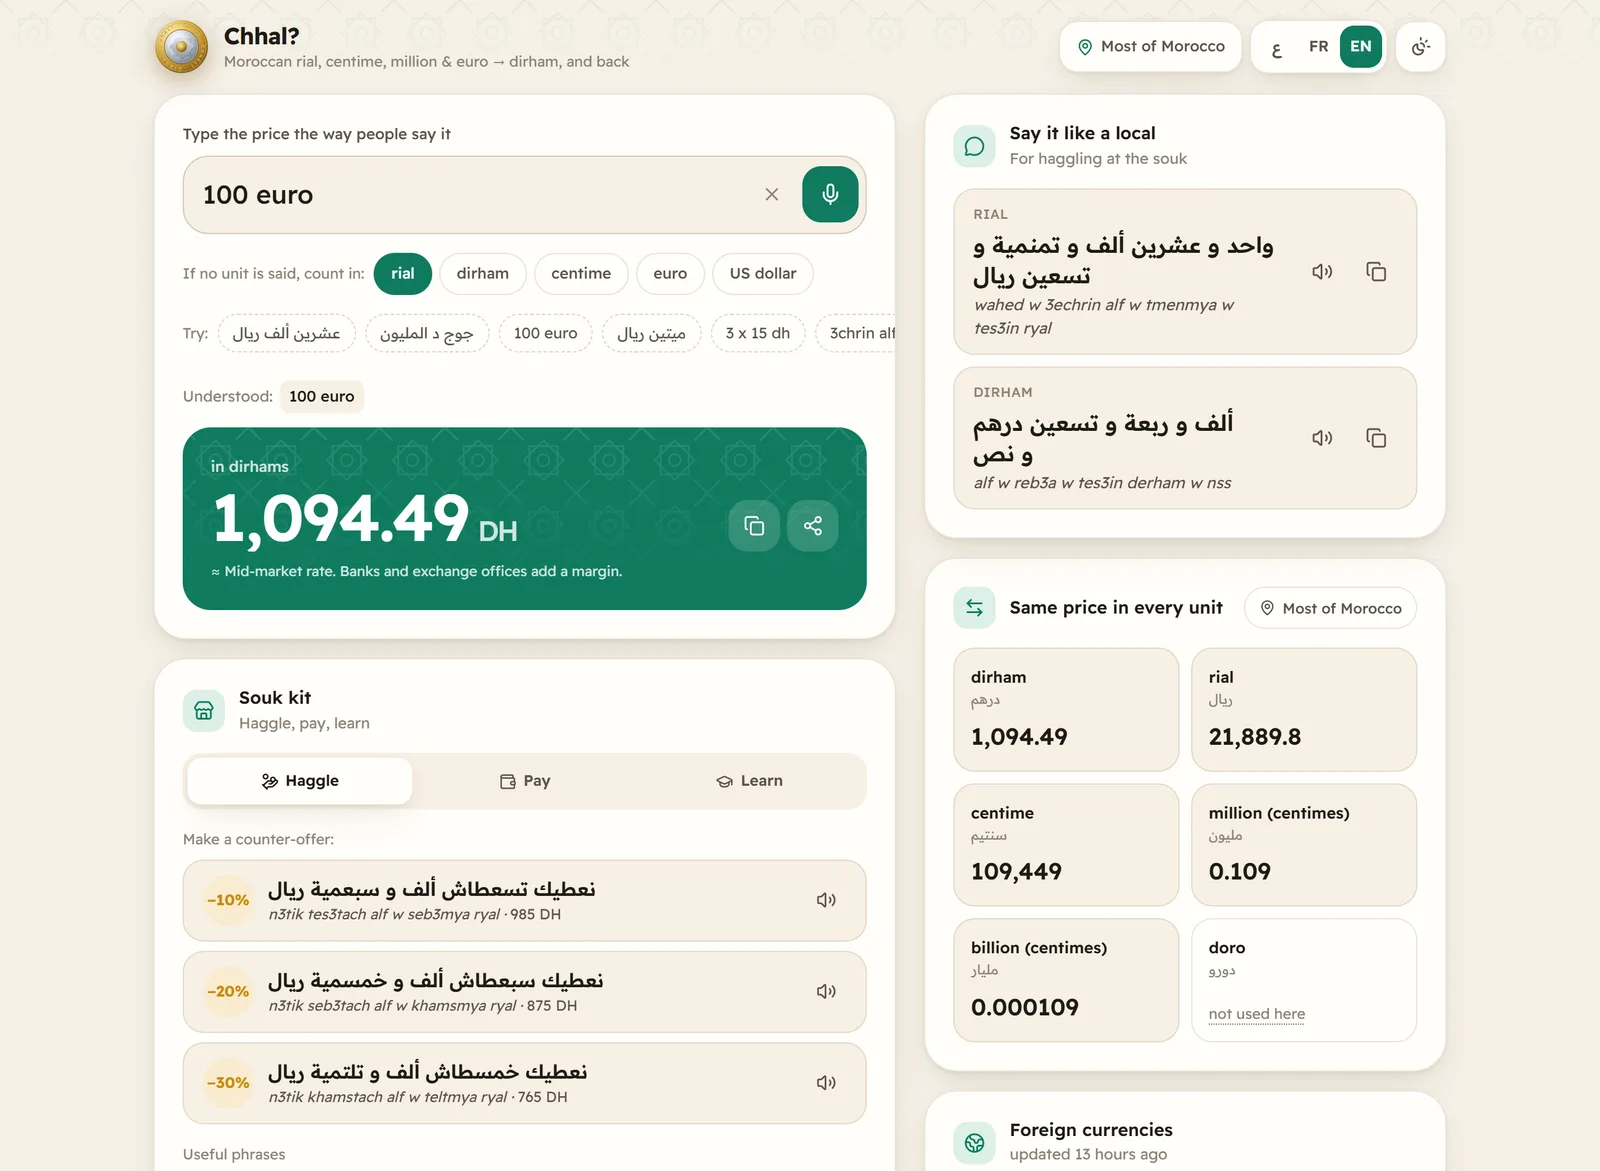
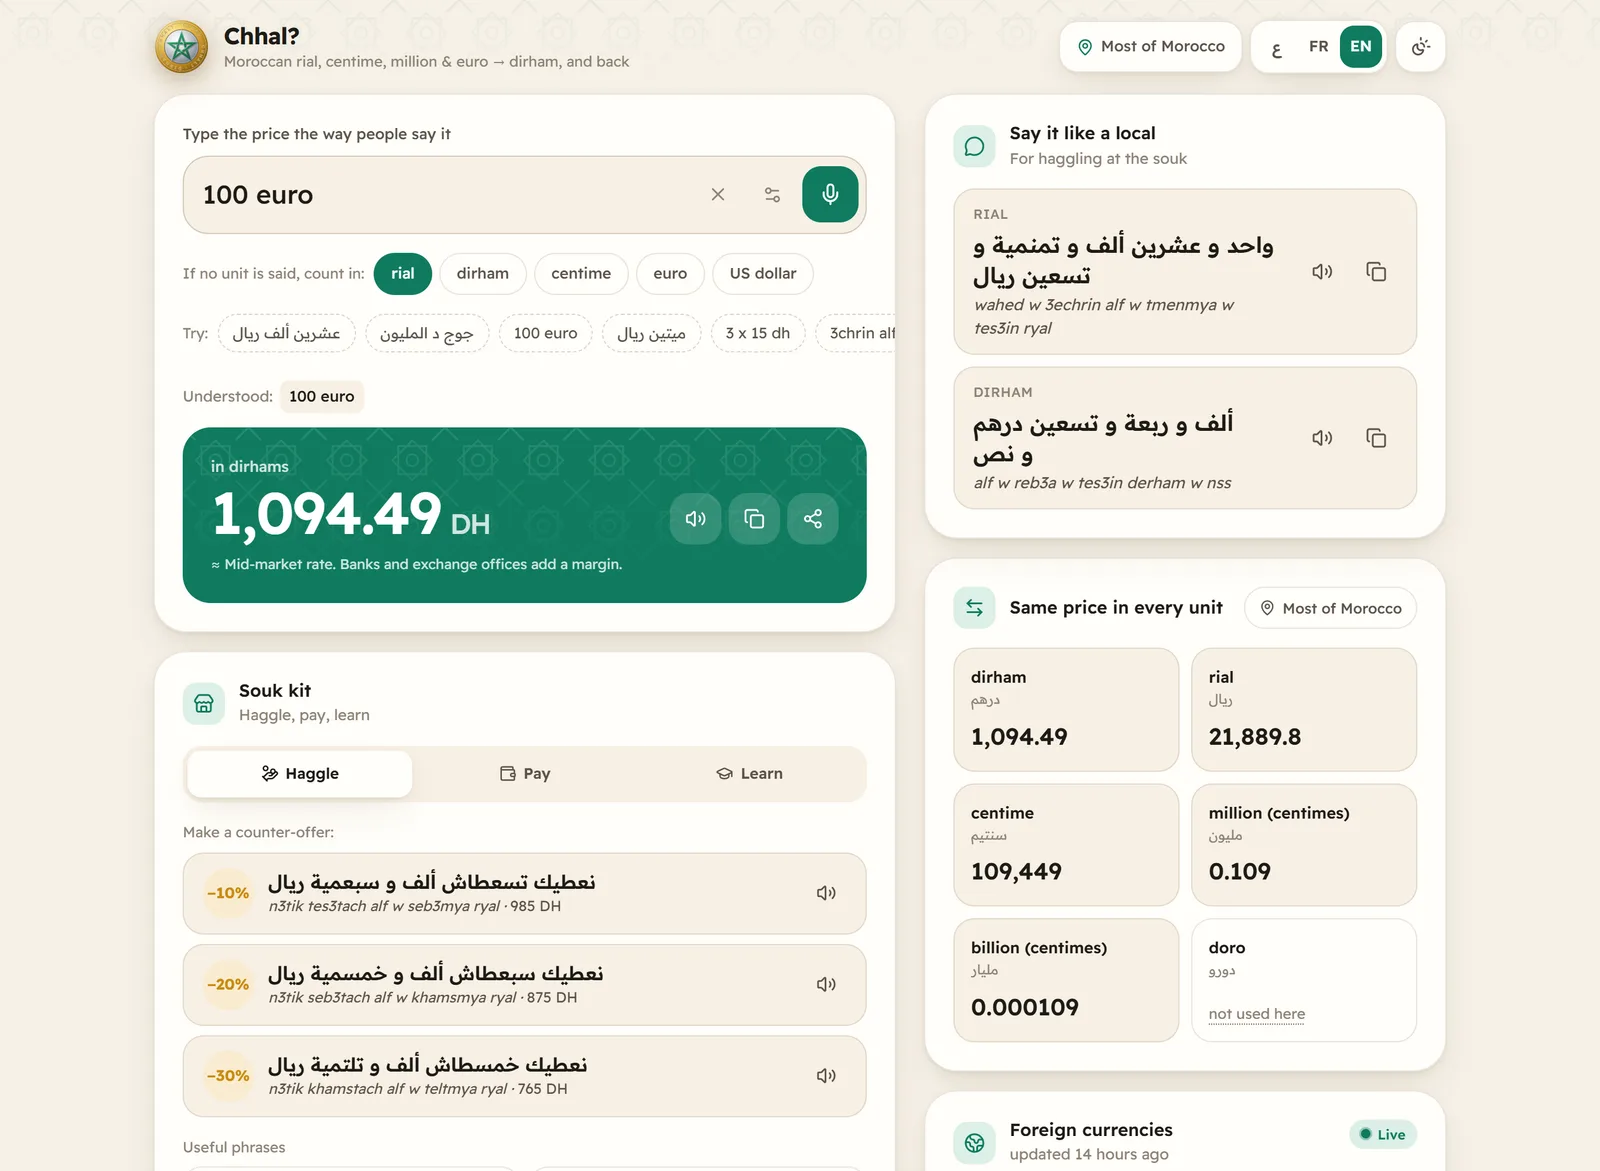
docs: README (public API), changelog and wiki for v0.6.0

diff --git a/README.md b/README.md
@@ -6,10 +6,10 @@
 ![License: MIT](https://img.shields.io/badge/license-MIT-green)
 ![PWA](https://img.shields.io/badge/PWA-offline--ready-0f7b5f)
 
-**Live:** https://darija-money-converter.vercel.app · **Status:** v0.5 — foreign currencies, coin logo, souk kit, calculator.
+**Live:** https://darija-money-converter.vercel.app · **Status:** v0.6 — live rates API with trends, Moroccan-star coin, Darija voice in/out, place detection.
 **Author:** Oussama EL HADJI. Part of the Bosaj ideas portfolio (sibling repo: `dual_portfolio_hub`).
 
-<p align="center"><img src="docs/coin-logo.webp" alt="Chhal coin logo: bimetallic brass and nickel coin with a zellige star" width="120" /></p>
+<p align="center"><img src="docs/coin-logo.webp" alt="Chhal coin logo: bimetallic brass and nickel coin with an interlaced green Moroccan star" width="140" /></p>
 <p align="center">
   <img src="docs/screenshot-desktop-light.webp" alt="Desktop: '100 euro' converted to Dirham with say-it phrases, souk kit and foreign currencies" width="760" />
 </p>
@@ -17,6 +17,11 @@
   <img src="docs/screenshot-mobile-ar.webp" alt="Mobile, Arabic RTL: 'عشرين ألف ريال' = 1,000 درهم" width="260" />
   &nbsp;
   <img src="docs/share-card.webp" alt="Shareable price card" width="260" />
+</p>
+<p align="center">
+  <img src="docs/live-rates.webp" alt="Live euro and dollar rates with daily change and 30-day sparklines" width="380" />
+  &nbsp;
+  <img src="docs/voice-settings.webp" alt="Voice settings: mic language and Arabic reading voice" width="260" />
 </p>
 
 ---
@@ -39,13 +44,48 @@ In Morocco people quote prices in **rial**, **santim/franc** or **millions** —
 | **Euro, dollar & more** | `100 euro`, `50€`, `$20`, `ألف أورو`, plus GBP, CAD, CHF, SAR, AED. Two-word names such as `ريال سعودي` or `فرنك سويسري` don't clash with the Moroccan rial or franc. Live mid-market rates, cached for offline use, with a dated fallback. |
 | **Calculator** | `3 x 15 dh`, `500 ريال × 4`: the quantity shows in the "understood" line. |
 | **Souk kit** | *Haggle*: −10/−20/−30% counter-offers spoken in Darija ("نعطيك …") plus useful phrases. *Pay*: the fewest notes and coins to hand over. *Learn*: a cheat sheet and a price quiz with a streak counter. |
-| **Coin logo** | A bimetallic coin (brass ring, nickel centre, reeded edge, zellige star, struck inscription) that flips when tapped. |
+| **Coin logo** | A bimetallic coin in the spirit of the 10 DH piece: brass ring, nickel centre, reeded edge, struck inscription and a raised, green-enamelled **interlaced Moroccan star**. It flips when tapped. There is deliberately no royal portrait: the King's image is legally protected and a portrait side would imitate real currency. |
+| **Live rates & trends** | Each currency shows its rate, the ▲/▼ change against yesterday and a 30-day sparkline. Rates refresh every 15 minutes while the app is open, are cached for offline use, and are served by the app's own API. |
+| **Voice in Darija** | The mic speaks Darija (ar-MA), Standard Arabic, French or English, with live text and a level meter. The parser also reads what speech engines output: `عشرون ألف`, `ثلاثمائة`, `quatre-vingt-dix`, `fifteen thousand`. Text-to-speech prefers a Moroccan voice (e.g. Edge's ar-MA neural voices) and has a voice and speed picker plus "read the result". |
+| **Detect my place** | One tap sets the region preset (general / Oriental / North) from your nearest Moroccan city. Abroad, it switches bare numbers to your home currency. Matching runs on the device and coordinates are never sent. Without permission, the time zone picks your first foreign currency. |
 | **PWA** | Installable, fully offline, no backend, no tracking. Links are shareable: `?q=جوج د المليون`. |
 | **Three languages** | Darija/Arabic (RTL), French, English · light/dark/system theme · reduced-motion aware. |
 
+## Public API
+
+Both endpoints are free, CORS-open and CDN-cached.
+
+### `GET /api/rates`
+
+```
+https://darija-money-converter.vercel.app/api/rates?symbols=EUR,USD&days=30
+```
+
+```json
+{
+  "base": "MAD",
+  "updated": 1791590551000,
+  "source": "exchangerate-api.com",
+  "rates": { "EUR": { "mad": 10.9449, "change": -0.21 }, "USD": { "mad": 9.9509, "change": 0.12 } },
+  "history": { "dates": ["2026-09-11", "…", "2026-10-10"], "series": { "EUR": [11.12, "…", 10.93] } }
+}
+```
+
+- `mad` is the number of dirhams for one unit. `change` is the % change against the previous day.
+- Latest rates come from [ExchangeRate-API](https://www.exchangerate-api.com). History comes from [fawazahmed0/currency-api](https://github.com/fawazahmed0/exchange-api) (jsDelivr with a Cloudflare Pages mirror).
+- Supported: EUR, USD, GBP, CAD, CHF, SAR, AED. `days` accepts 2–60.
+
+### `GET /api/convert`
+
+```
+https://darija-money-converter.vercel.app/api/convert?q=جوج د المليون&unit=rial&region=general
+```
+
+The response contains `segments` (what was understood), `dirham`, `values` (every unit, foreign ones included) and `sayIt` (how a local says the amount, in Arabic and Arabizi). `422` means no amount was found.
+
 ## Exchange rates
 
-Foreign values use daily mid-market rates from [ExchangeRate-API](https://www.exchangerate-api.com) (open access, no key). They are cached on the device, and a dated snapshot ships with the app for the first offline visit. Banks and exchange offices add a margin, so the app labels these values as approximate.
+These are mid-market rates. They are cached on the device, and a dated snapshot ships with the app for the first offline visit. Banks and exchange offices add a margin, so the app labels foreign conversions as approximate.
 
 ## The conversion table
 
@@ -73,13 +113,18 @@ src/
   lib/spell.ts            number → Darija words (Arabic + Arabizi), noun agreement
   lib/convert.ts          segments ⇄ Dirham, "say it like a local" phrases
   lib/shareCard.ts        canvas price card + Web Share API
-  lib/rates.ts            live MAD rates, device cache, dated snapshot
+  lib/rates.ts            client for /api/rates, device cache, dated snapshot
+  lib/place.ts            offline nearest-city + country detection
+  hooks/voice.ts          speech-to-text (Web Speech API) and text-to-speech helpers
+api/
+  rates.ts                live rates + daily change + 30-day history (Vercel Function)
+  convert.ts              Darija parser as a JSON API (Vercel Function)
   lib/souk.ts             haggle offers, cash breakdown, cheat sheet, quiz
   components/, App.tsx    React UI (Tailwind v4, RTL-first)
 ```
 
 - **No backend.** Everything runs client-side; the service worker precaches the app and fonts (Readex Pro, self-hosted).
-- **Correctness first.** 91 tests, including round trips: every number the speller writes, every haggle offer and every quiz question must parse back to the same amount.
+- **Correctness first.** 120 tests, including round trips: every number the speller writes, every haggle offer and every quiz question must parse back to the same amount.
 
 ## Getting started
 
@@ -99,7 +144,8 @@ Requires Node 20+ (CI uses Node 24).
 - [x] v0.3 — Darija voice / spoken-number input — [#3](https://github.com/Bosaj/darija-money-converter/issues/3)
 - [x] v0.4 — polished PWA, shareable price cards — [#4](https://github.com/Bosaj/darija-money-converter/issues/4)
 - [x] v0.5 — euro/dollar & foreign currencies, coin logo, souk kit, calculator — [#6](https://github.com/Bosaj/darija-money-converter/issues/6)–[#11](https://github.com/Bosaj/darija-money-converter/issues/11)
-- [ ] Next — confirm doro (and any other local terms) city by city; offline speech model for browsers without Web Speech.
+- [x] v0.6 — live rates API with trends, Moroccan-star coin, Darija voice in/out, place detection — [#13](https://github.com/Bosaj/darija-money-converter/issues/13)–[#16](https://github.com/Bosaj/darija-money-converter/issues/16)
+- [ ] Next — confirm doro (and any other local terms) city by city; a server speech model for Firefox, which has no Web Speech API.
 
 ---
 

diff --git a/CHANGELOG.md b/CHANGELOG.md
@@ -4,6 +4,16 @@ All notable changes to this project are documented here. Format: [Keep a Changel
 
 ## [Unreleased]
 
+## [0.6.0] - 2026-10-10
+### Added
+- `GET /api/rates`: latest MAD rates merged with a 30-day history and the daily change, CDN-cached and CORS-open. `GET /api/convert`: the Darija parser as a JSON API. The app shows ▲/▼ change, 30-day sparklines and a live indicator, and refreshes every 15 minutes. (#13)
+- Coin logo with a raised, green-enamelled, interlaced Moroccan star; favicon and PWA icons regenerated. (#14)
+- Voice: mic language picker (Darija / Standard Arabic / French / English), live interim text, a level meter and clear error states. The parser now understands Standard Arabic, French and English number words. Text-to-speech prefers Moroccan Arabic voices and adds a voice and speed picker plus "read the result". (#15)
+- Detect my place: offline nearest-city matching sets the region preset; abroad, bare numbers switch to the home currency; a time-zone hint works without permission. (#16)
+
+### Fixed
+- Shared parser modules use explicit `.js` import extensions and a JSON import attribute, so Vercel's Node ESM functions can load them.
+
 ## [0.5.0] - 2026-10-10
 ### Added
 - Euro, US dollar and optional GBP, CAD, CHF, SAR, AED as parser units: words, symbols (`50€`, `$20`) and two-word names that don't clash with the Moroccan rial or franc. Live mid-market rates from ExchangeRate-API, a device cache, a dated offline snapshot, attribution, and an "approximate" note on converted totals. (#6)
@@ -38,6 +48,7 @@ First working release: all four roadmap milestones (v0.1–v0.4).
 ### Added
 - Initial repository scaffold: README (with architecture, roadmap and an LLM-handoff section), LICENSE, .gitignore, CONTRIBUTING, issue/PR templates, and wiki pages.
 
-[Unreleased]: https://github.com/Bosaj/darija-money-converter/compare/v0.5.0...HEAD
+[Unreleased]: https://github.com/Bosaj/darija-money-converter/compare/v0.6.0...HEAD
+[0.6.0]: https://github.com/Bosaj/darija-money-converter/releases/tag/v0.6.0
 [0.5.0]: https://github.com/Bosaj/darija-money-converter/releases/tag/v0.5.0
 [0.4.0]: https://github.com/Bosaj/darija-money-converter/releases/tag/v0.4.0

diff --git a/wiki/1-Architecture.md b/wiki/1-Architecture.md
@@ -26,6 +26,10 @@ Client-side only: a React + Vite PWA. No backend, no analytics.
 | `lib/shareCard.ts` | 1080×1350 price card |
 | `lib/rates.ts` | Live MAD exchange rates, device cache, dated snapshot |
 | `lib/souk.ts` | Haggle offers, cash breakdown, cheat sheet, quiz |
+| `lib/place.ts` | Offline nearest-city / country detection |
+| `hooks/voice.ts` | Speech-to-text and text-to-speech |
+| `api/rates.ts` | Public rates API: latest + daily change + 30-day history |
+| `api/convert.ts` | Public Darija conversion API |
 
 ## Quality
-91 Vitest tests, including a spell → parse round trip in both scripts. CI runs type-check, tests and build on every PR.
+120 Vitest tests, including a spell → parse round trip in both scripts. CI runs type-check, tests and build on every PR.

diff --git a/wiki/2-Roadmap.md b/wiki/2-Roadmap.md
@@ -5,6 +5,7 @@
 - [x] v0.3 — Darija voice / spoken-number input — #3
 - [x] v0.4 — polished PWA, shareable price cards — #4 (released as v0.4.0)
 - [x] v0.5 — euro/dollar and foreign currencies (live rates), coin logo, souk kit (haggle, pay, learn), calculator — #6–#11 (released as v0.5.0)
+- [x] v0.6 — live rates API with daily change and 30-day history, Moroccan-star coin, Darija voice in/out, place detection — #13–#16 (released as v0.6.0)
 
 ## Next
 - Confirm the doro value city by city (use the "Regional value" issue form).
